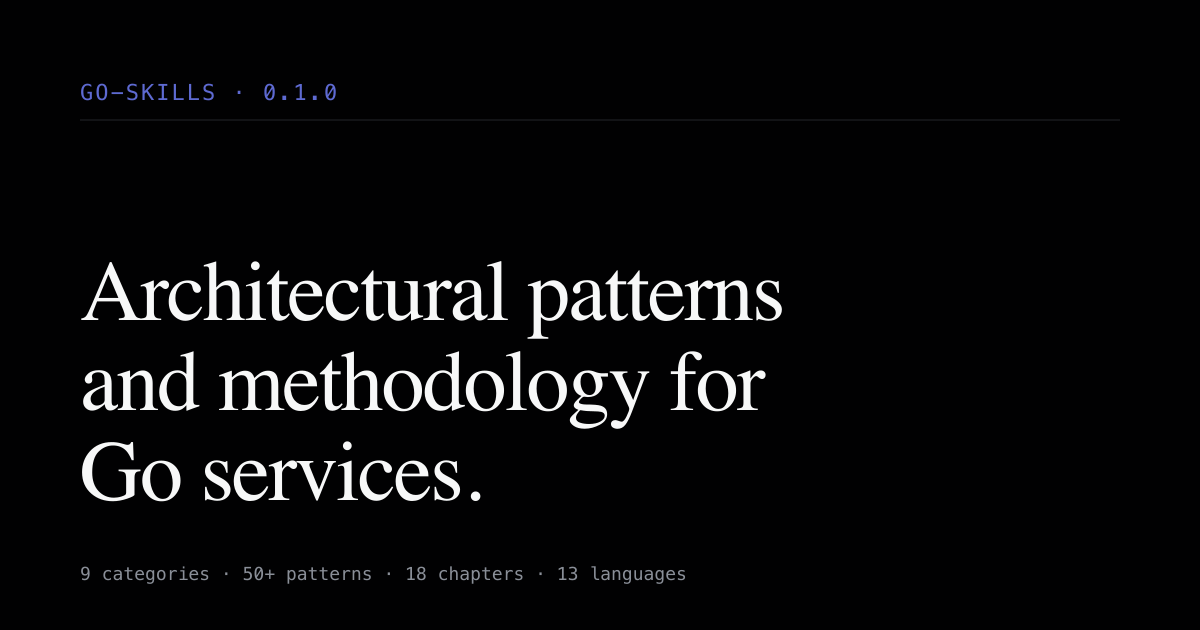
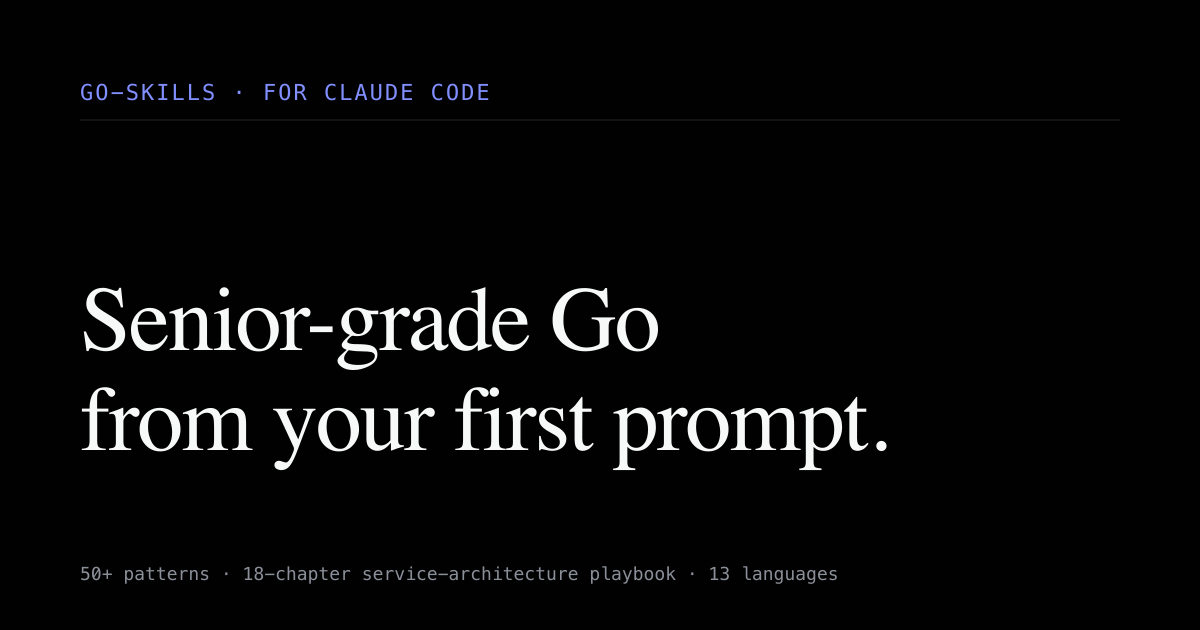
feat(site): repositioned hero — Senior Go for Claude Code users + new OG image

diff --git a/docs/index.html b/docs/index.html
@@ -7,8 +7,8 @@
     <meta name="theme-color" content="#ffffff" media="(prefers-color-scheme: light)" />
     <meta name="color-scheme" content="dark light" />
 
-    <title>go-skills — Patterns & methodology for Go services</title>
-    <meta name="description" content="A Go knowledge base — 50+ design and concurrency patterns plus an 18-chapter service-architecture methodology — packaged as Claude Code skills, exposed via this site. 13 languages." />
+    <title>go-skills — Senior Go skills for Claude Code</title>
+    <meta name="description" content="Drop go-skills into Claude Code: 50+ Go patterns + 18-chapter service-architecture playbook. Senior-grade Go from your first prompt." />
     <meta name="author" content="Yevgeniy Achin" />
     <meta name="keywords" content="go, golang, design patterns, concurrency patterns, service architecture, methodology, claude code, skills, mcp, github pages" />
     <link rel="canonical" href="https://amazopic.github.io/go-skills/" />
@@ -28,8 +28,8 @@
     <link rel="alternate" hreflang="ar" href="https://amazopic.github.io/go-skills/?lang=ar" />
 
     <meta property="og:type" content="website" />
-    <meta property="og:title" content="go-skills — Patterns & methodology for Go services" />
-    <meta property="og:description" content="50+ Go patterns + 18-chapter service-architecture methodology, packaged as Claude Code skills. Linear-styled site, 13 languages." />
+    <meta property="og:title" content="go-skills — Senior Go skills for Claude Code" />
+    <meta property="og:description" content="Drop go-skills into Claude Code: senior-grade Go from your first prompt. 50+ patterns + 18-chapter service-architecture playbook." />
     <meta property="og:url" content="https://amazopic.github.io/go-skills/" />
     <meta property="og:site_name" content="go-skills" />
     <meta property="og:image" content="https://amazopic.github.io/go-skills/og-image.png" />
@@ -49,8 +49,8 @@
     <meta property="og:locale:alternate" content="ar_SA" />
 
     <meta name="twitter:card" content="summary_large_image" />
-    <meta name="twitter:title" content="go-skills — Patterns & methodology for Go services" />
-    <meta name="twitter:description" content="50+ Go patterns + 18-chapter service-architecture methodology, packaged as Claude Code skills." />
+    <meta name="twitter:title" content="go-skills — Senior Go skills for Claude Code" />
+    <meta name="twitter:description" content="Drop go-skills into Claude Code: senior-grade Go from your first prompt." />
     <meta name="twitter:image" content="https://amazopic.github.io/go-skills/og-image.png" />
 
     <link rel="alternate" type="text/plain" href="/go-skills/llms.txt" title="llms.txt — AI crawler index" />
@@ -187,8 +187,8 @@
       <section class="section s-hero" aria-labelledby="hero-title">
         <div class="wrap">
           <span class="brand-mark" data-i18n="hero.brand">go-skills</span>
-          <h1 id="hero-title" data-i18n="hero.title">Architectural patterns and methodology for Go services.</h1>
-          <p class="lede" data-i18n="hero.lede">A curated knowledge base — 50+ design and concurrency patterns plus an 18-chapter service-architecture playbook — packaged as Claude Code skills, exposed via this site, and (soon) an MCP server.</p>
+          <h1 id="hero-title" data-i18n="hero.title">Senior-grade Go from your first prompt.</h1>
+          <p class="lede" data-i18n="hero.lede">For Claude Code users who want production Go without the years. Add go-skills — your AI now codes like the Go community's best: 50+ patterns, an 18-chapter service-architecture playbook, decades of hard-won wisdom, addressable from every prompt.</p>
           <div class="actions">
             <a class="btn btn-primary" href="#catalog" data-i18n="hero.cta.catalog">Browse catalog</a>
             <a class="btn" href="#methodology" data-i18n="hero.cta.methodology">Read methodology</a>
